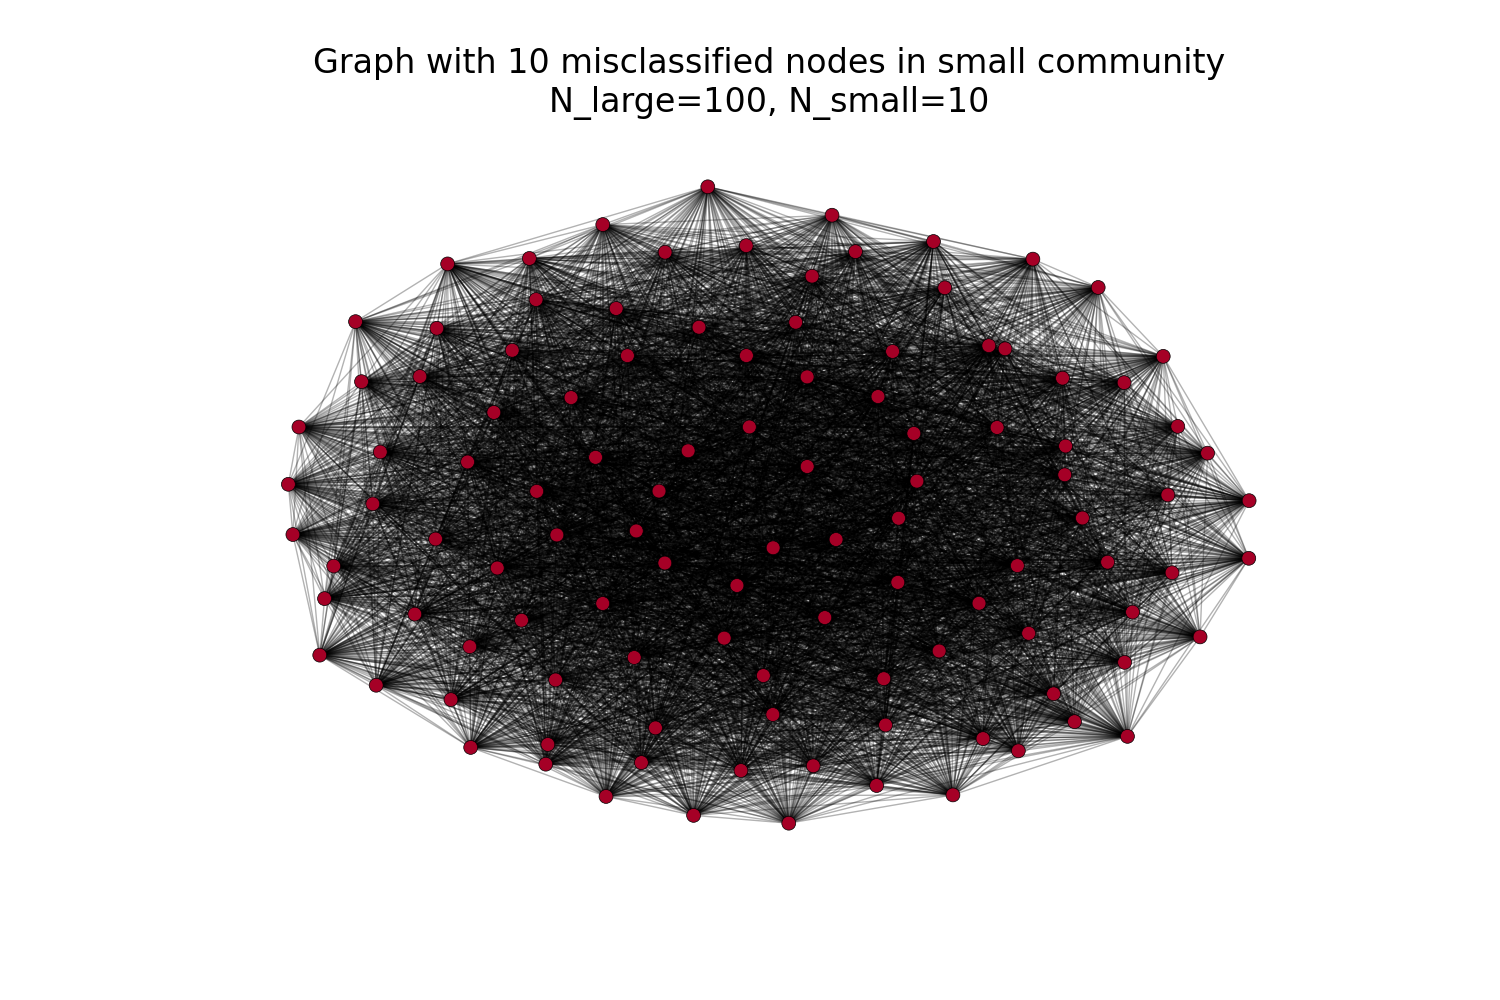
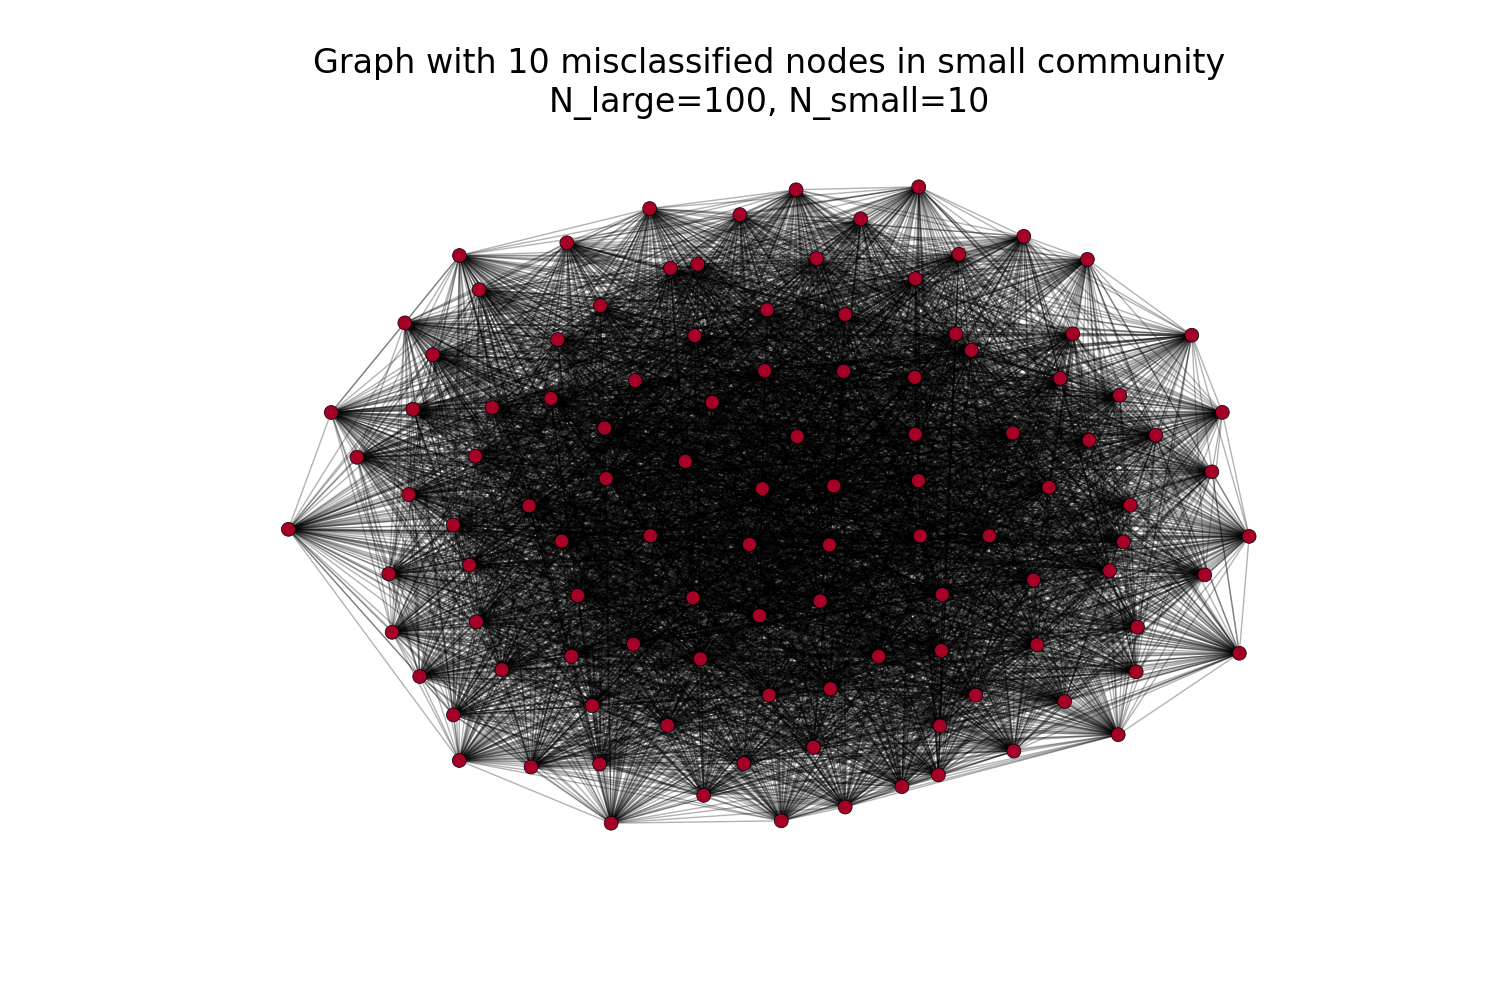
Add extra plots

Changed region(s): [[0.184, 0.186, 0.8587, 0.837]]

diff --git a/casestudy_arguing_fair_metric.py b/casestudy_arguing_fair_metric.py
@@ -110,7 +110,10 @@ for num_small in num_smalls:
 
         #  Not important drawing stuff, just for myself
         pos = nx.spring_layout(G)  # compute graph layout
-        # draw_graph(G, pos=pos, communities=communities, filename=f"var_small_comm_size_{num_small}")
+        draw_graph(G, pos=pos, communities=communities, filename=f"varying_small_comm_size_initial_graph_{num_small}",
+                   title="Initial graph of varying small community size\n"
+                         f"and misclassifying nodes in small community, N_small={num_small}, N_large=100",
+                   )
 
         mislabel_comm_nodes = {
             "small": 10
